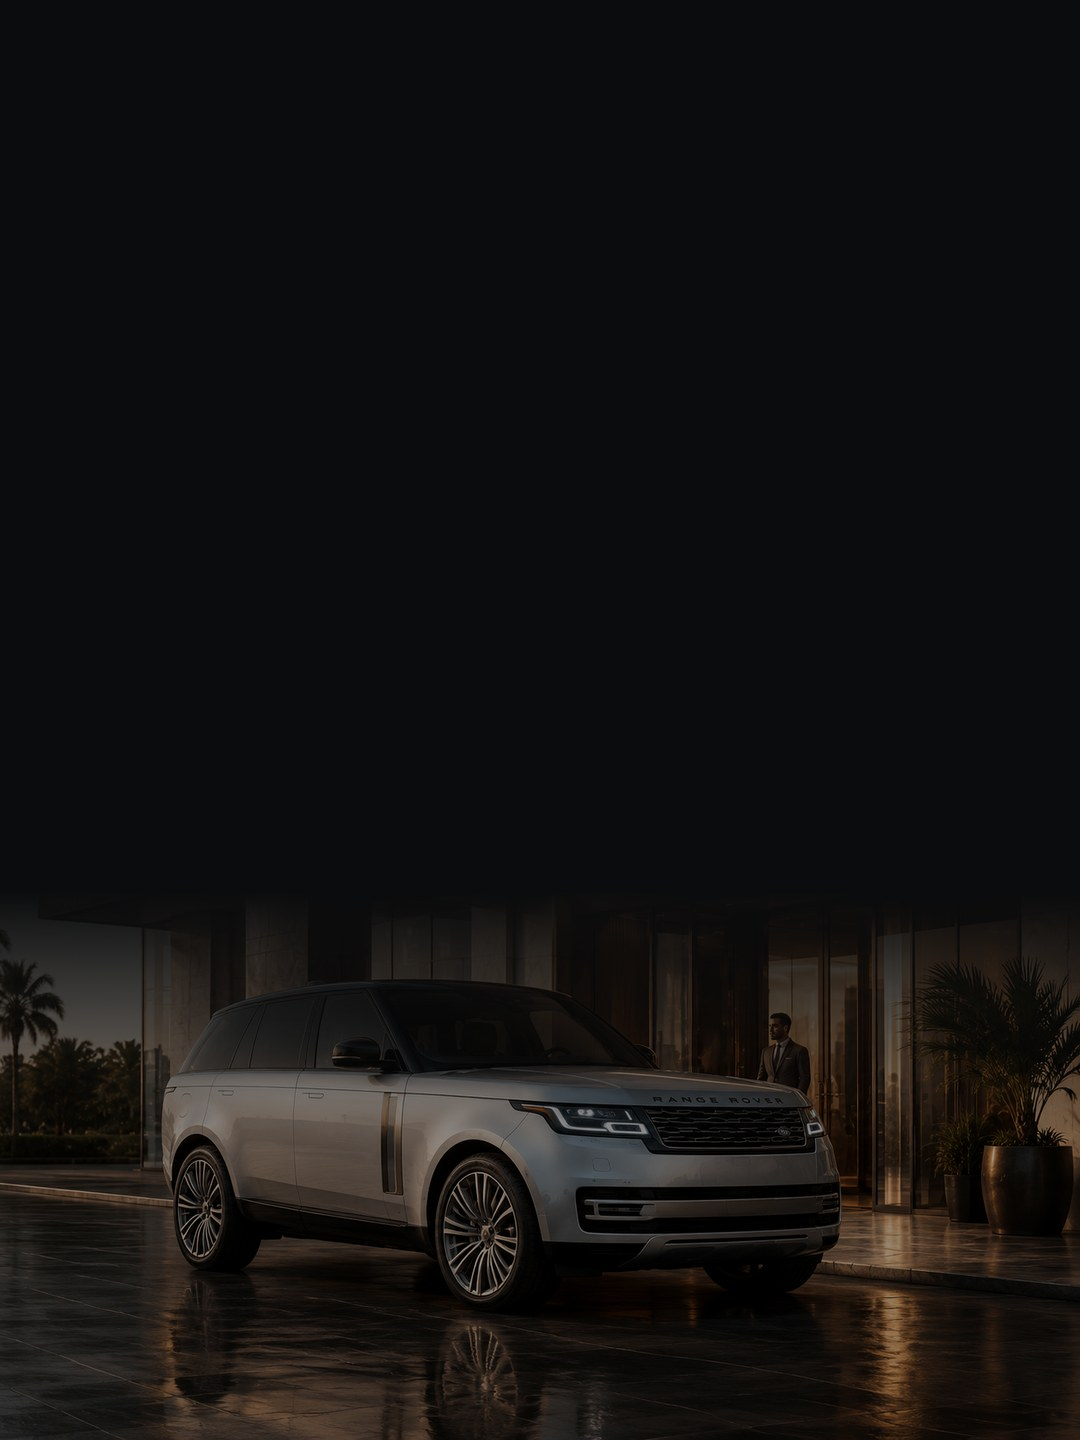
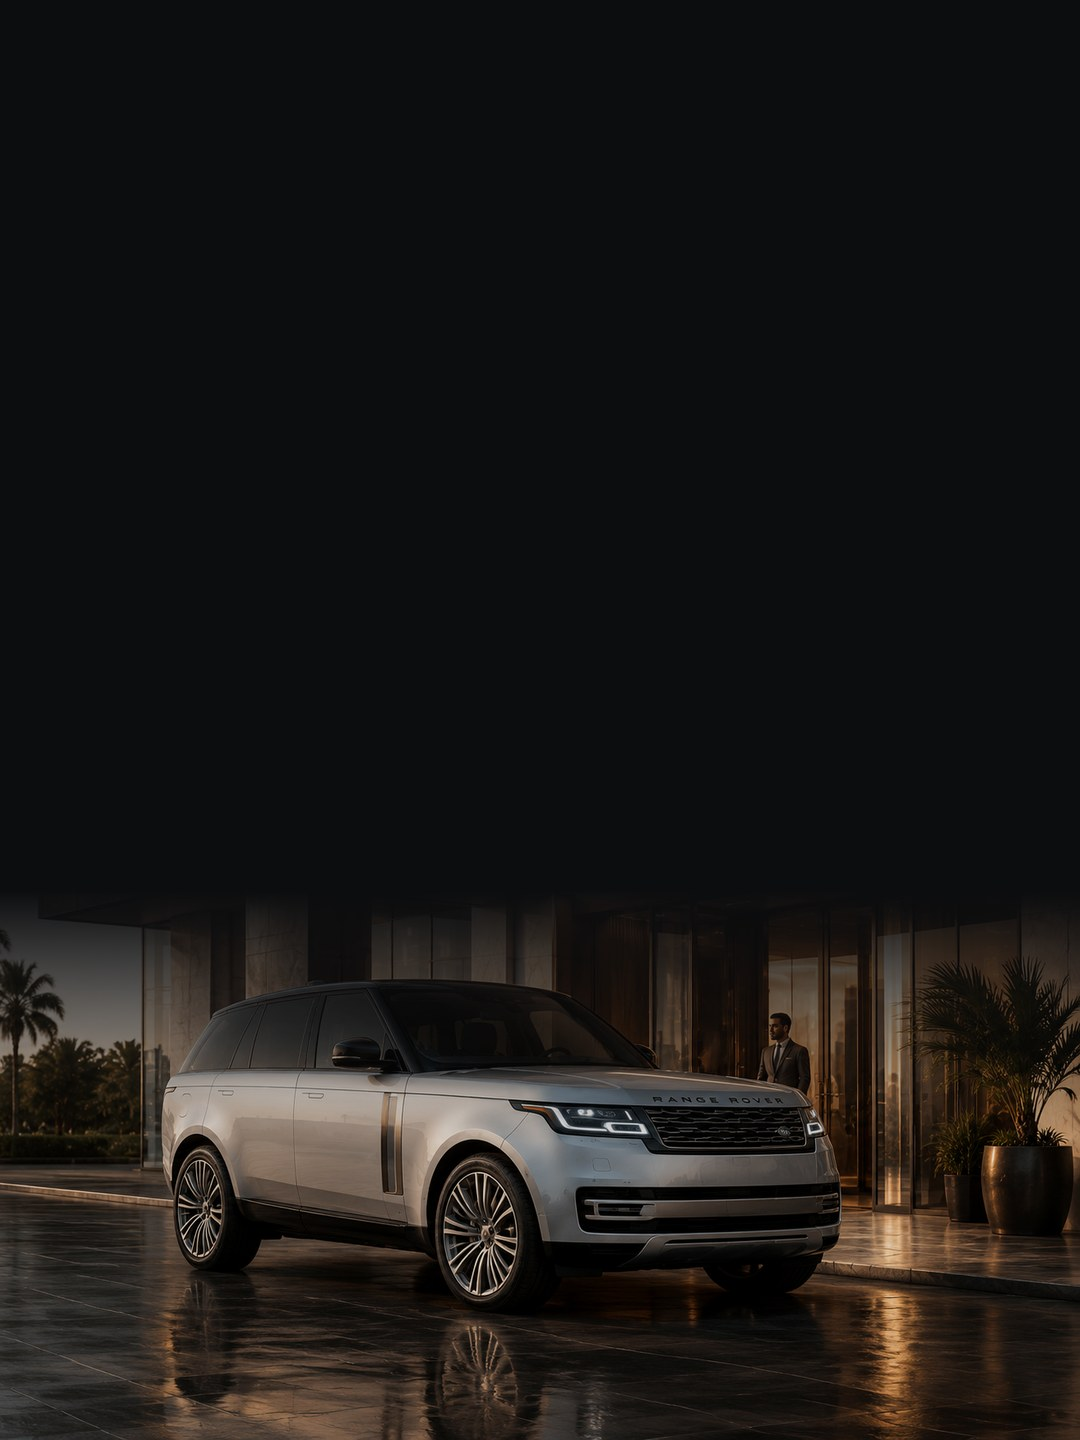
Mobile dark hero: brighten car + lighten overlay (was too dim to see vehicle)
- hero-dark-mobile.jpg regenerated at 0.88 brightness (was 0.60).
- Mobile dark gradient eased in the car zone (0.66/0.86 -> 0.16/0.42 at 58%/100%),
  keeping the top dark for headline legibility.

Changed region(s): [[0.0, 0.6562, 1.0, 1.0], [0.0611, 0.9375, 0.0917, 0.9688]]

diff --git a/app/globals.css b/app/globals.css
@@ -866,7 +866,7 @@ html.va-dark .va-cta-actions .va-secondary-button { border-color: rgba(255,255,2
   }
   html.va-dark .va-hero {
     background-image:
-      linear-gradient(180deg, rgba(0,0,0,0.64) 0%, rgba(0,0,0,0.50) 28%, rgba(0,0,0,0.66) 58%, rgba(0,0,0,0.86) 100%),
+      linear-gradient(180deg, rgba(0,0,0,0.66) 0%, rgba(0,0,0,0.42) 30%, rgba(0,0,0,0.16) 58%, rgba(0,0,0,0.42) 100%),
       url("/images/hero-dark-mobile.jpg");
   }
   html.va-light .va-hero {